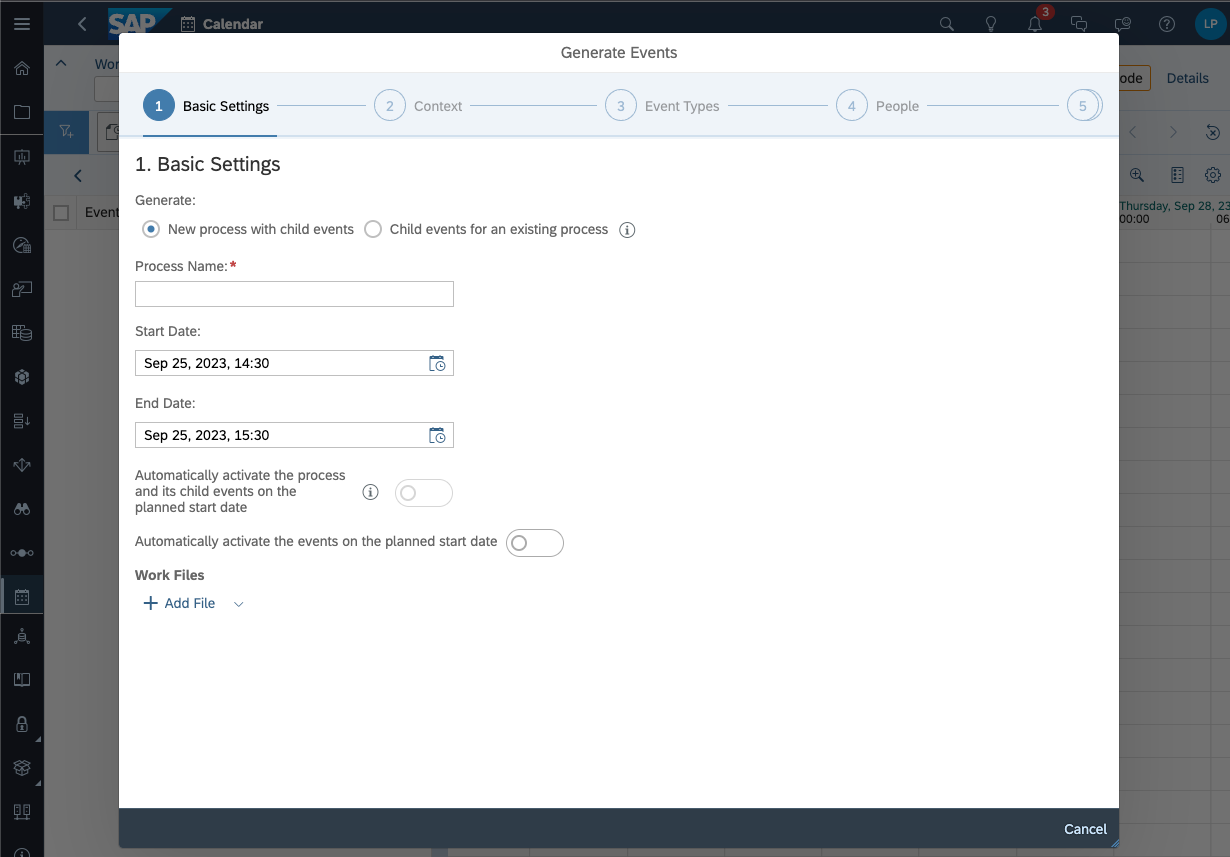
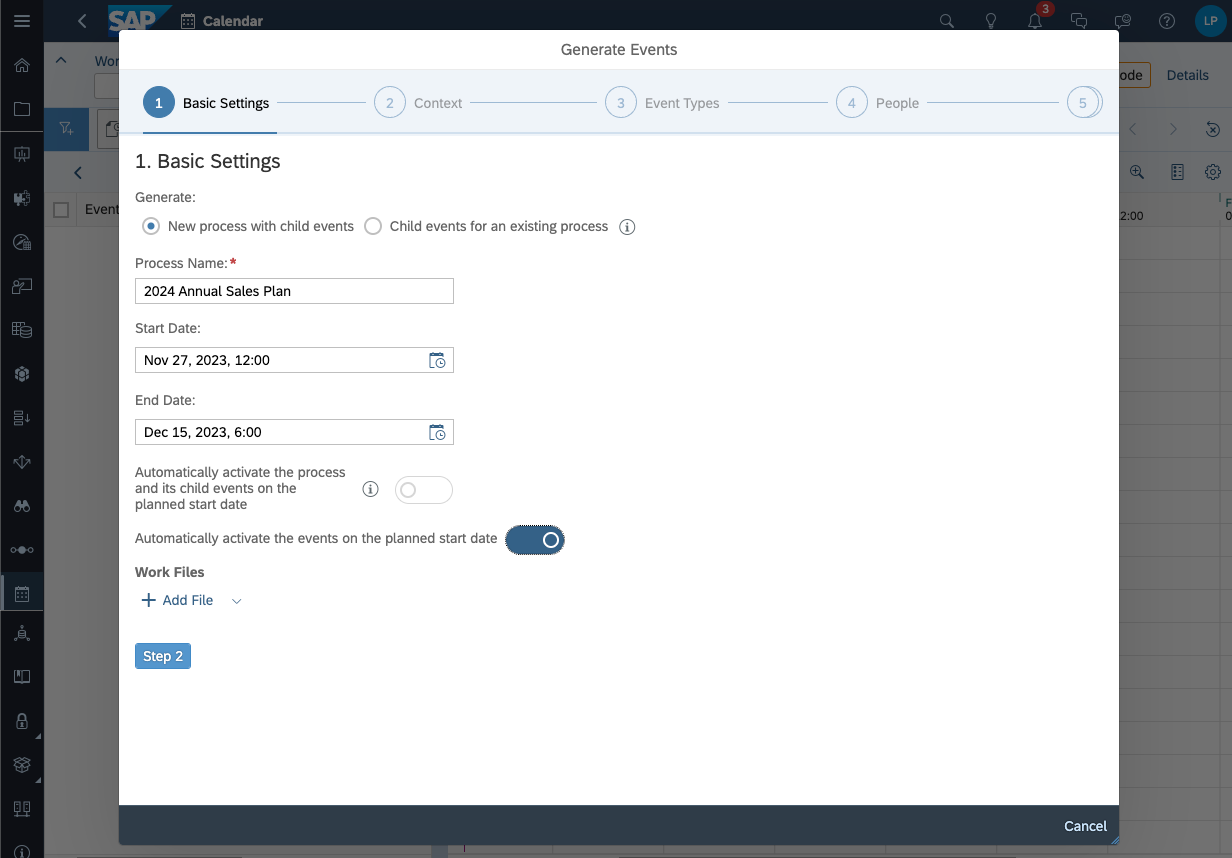
c

diff --git a/exercises/ex3/README.md b/exercises/ex3/README.md
@@ -2,20 +2,18 @@
 
 **Objective:** In this exercise, you will explore the calendar,
 and create a submission and review task based on the output of exercises 1
-& 2
+and 2.
 
 **Estimated Time:** 15 mins
 
 **Exercise Description:**  Now that we have created our dashboard and input template,
-and create a process to aggregate the plan results, we will create a simple
-calendar process to simulate to a plan submission workflow.  Note that in this exercise we will only generate
-the tasks due to the complexities associated with multiple sign-ins required to
-step through the actual submission process.
+and have developed logic to aggregate the plan results, we will create a simple
+calendar process to simulate to a plan workflow submission. 
 
 **Key Features:**
 
-* Utilize the Calendar Wizard to create and assignee
-  and review tasks for plan submission
+* Utilize the Calendar Wizard to create General
+  and Review tasks to manage plan submission
 
 ⚠**Disclaimer** When
 completing exercises, it is expected that data values or screenshots should
@@ -25,9 +23,8 @@ appropriate section in **Getting Started** Readme.  For any inconsistencies whic
 addressed therein, please check with your instructor.
 
 🚩As a FP&A Analyst for CycleBros, we are interested in
-generating a managed contribution workflow to allow for an end-user to capture
-their plan and then get that plan approved.
-We will utilize the SAC calendar for this purposed.
+generating a managed contribution workflow to allow for end-users to capture
+their plan and have that plan reviewed.  We will utilize the SAC calendar for this purposed.
 
 Let’s start by launching the calendar.
 
@@ -36,17 +33,16 @@ Let’s start by launching the calendar.
 <img src="./images/image1.png" style="width:500px;height:413px;"/>
 
 115. Select
-     Calendar
+     **Calendar**
 
 <img src="./images/image2.png" style="width:180px;height:500px;"/>
 
 🚩 Welcome to
 the Calendar! This where you can create user driven tasks and execute automated
 system tasks based on specific calendar dates and times.  Note that you may have received a
-notification about a next task status filtering option.  If you did, you will likely see a pre-filter
-already setup based on task status (you can see this below).  You are likely to see a blank calendar as no
-tasks have been configured for your user (either as a task owner, task assignee,
-or task reviewer).   We are going to
+pop-up notification about new task status filtering options.  If you did, you will likely see a pre-filter
+already setup based on task status (you can see this below).  At present the calendar is empty as no tasks have been configured for your user (either as a task owner, task assignee,
+or task reviewer).   In the remainder of this exercsie, we are going to
 create some tasks in this exercise.
 
 116. Under
@@ -56,15 +52,14 @@ create some tasks in this exercise.
 <img src="./images/image4.png" style="width:800px;height:556px;"/>
 
 🚩 Welcome to the Calendar Wizard! From here we can utilize
-various parameters to create many assignee and review tasks which essentially represent
-a larger submission workflow to cover an entire planning process, or a
+various parameters to create multiple assignee and review tasks to represent
+a larger submission workflow which may cover an entire planning process or
 subprocess.  In our case, this workflow
 will be very simplistic and could be create manually using the General and
 Review Task options visible in the menu item above.  However, we will utilize the Wizard to
 illustrate its capabilities.
 
-
-117. From the Basic Settings step, configure the following settings.  For Process Name, Start Date, and End Date
+117. From the **Basic Settings** step, configure the following parameters.  For Process Name, Start Date, and End Date
      feel free to use those provided in the image, or set your own
 
 <img src="./images/image5.png" style="width:800px;height:556px;"/>
@@ -80,7 +75,7 @@ illustrate its capabilities.
      in the TE_2023_SAC_Planning_DA261 Workspace).
      Click the **OK** button.
 
-<img src="./images/image7.png" style="width:800px;height:556px;"/>     
+<img src="./images/image7.png" style="width:800px;height:556px;"/>
 
 120. Navigate
      to  **Step 2** .
@@ -101,10 +96,10 @@ flow or using the scroll bar on the right of the dialog.  Feel free to test this
 <img src="./images/image9.png" style="width:800px;height:556px;"/>
 
 122. The **Event Types** step allows us
-    to define the specific types of tasks we want to configure.  In our case we will select General Task and Review
-    Tasks, and we will also include a Data Locking Task and create an overriding
-    process group for our tasks.  Configure
-    the Event types step as follows.
+     to define the specific types of tasks we want to configure.  In our case we will select General Task and Review
+     Tasks, and we will also include a Data Locking Task and create an overriding
+     process group for our tasks.  Configure
+     the Event types step as follows.
 
 <img src="./images/image10.png" style="width:800px;height:576px;"/>
 
@@ -216,8 +211,8 @@ free to review the other settings in the detail panel of the task.  For our fina
 <img src="./images/image20.png" style="width:700px;height:410px;"/>
 
 132. In the Activate dialog select the Activate process
-    (without role transfer).  Click the
-    Activate button.
+     (without role transfer).  Click the
+     Activate button.
 
 <img src="./images/image21.png" />
 
